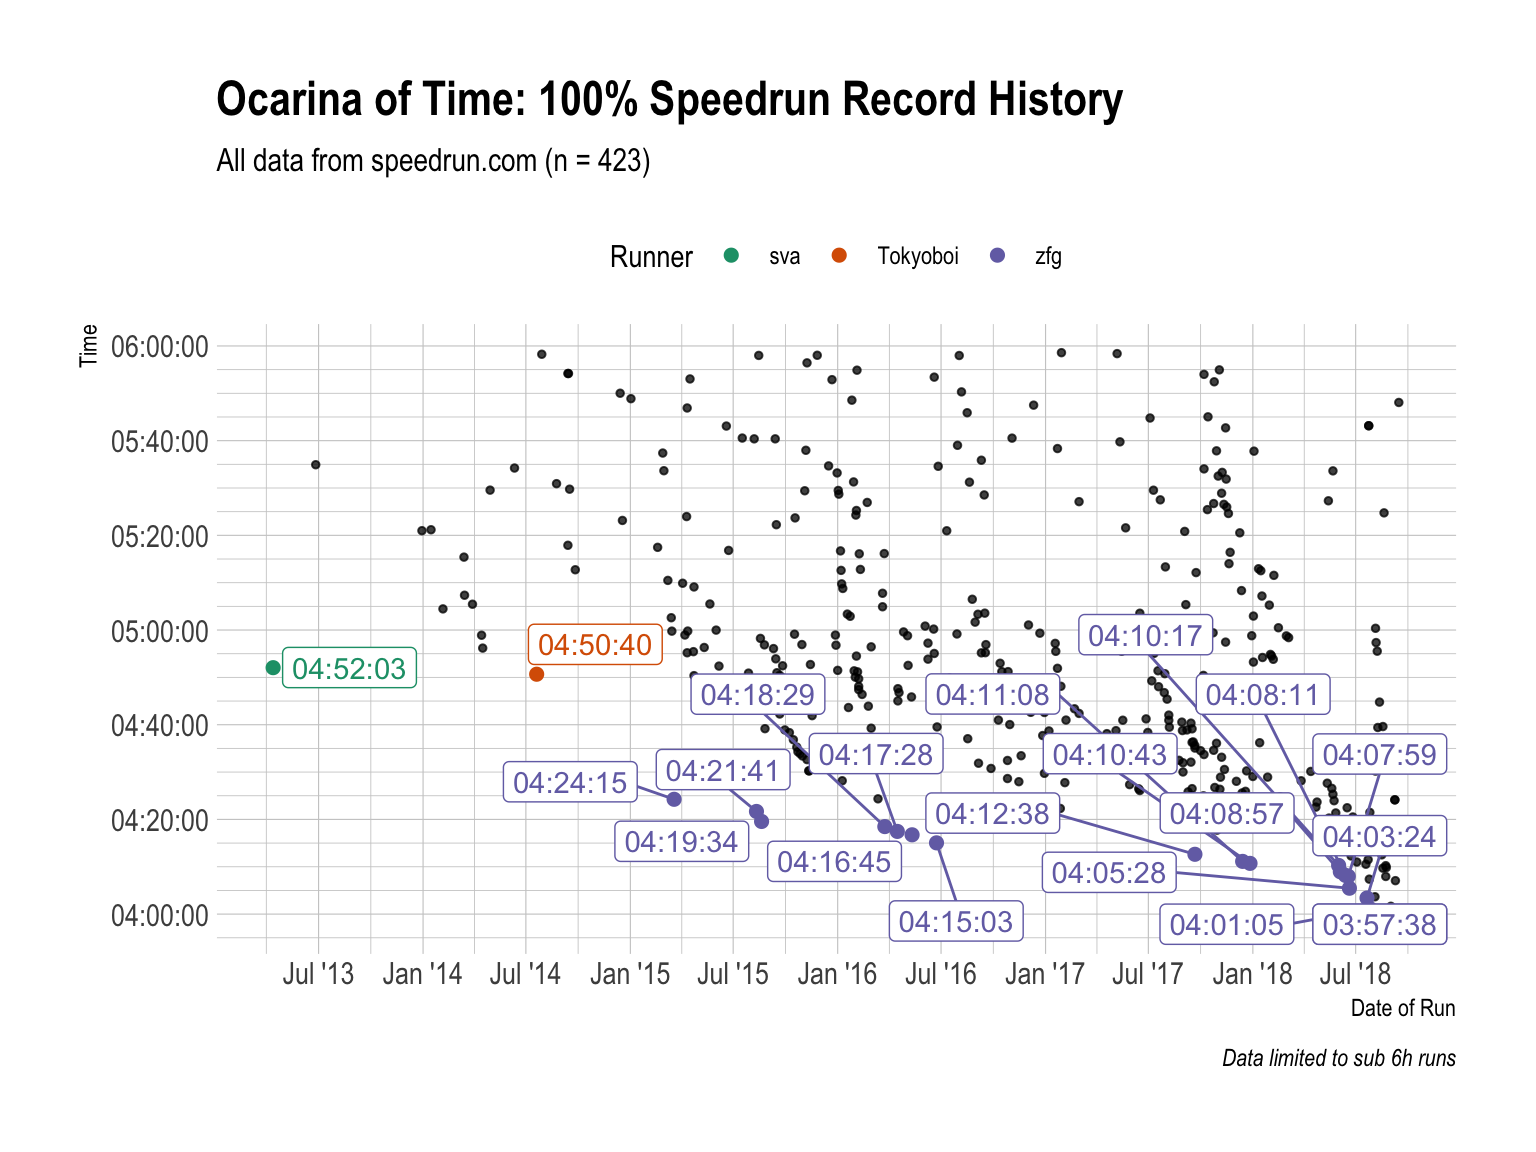
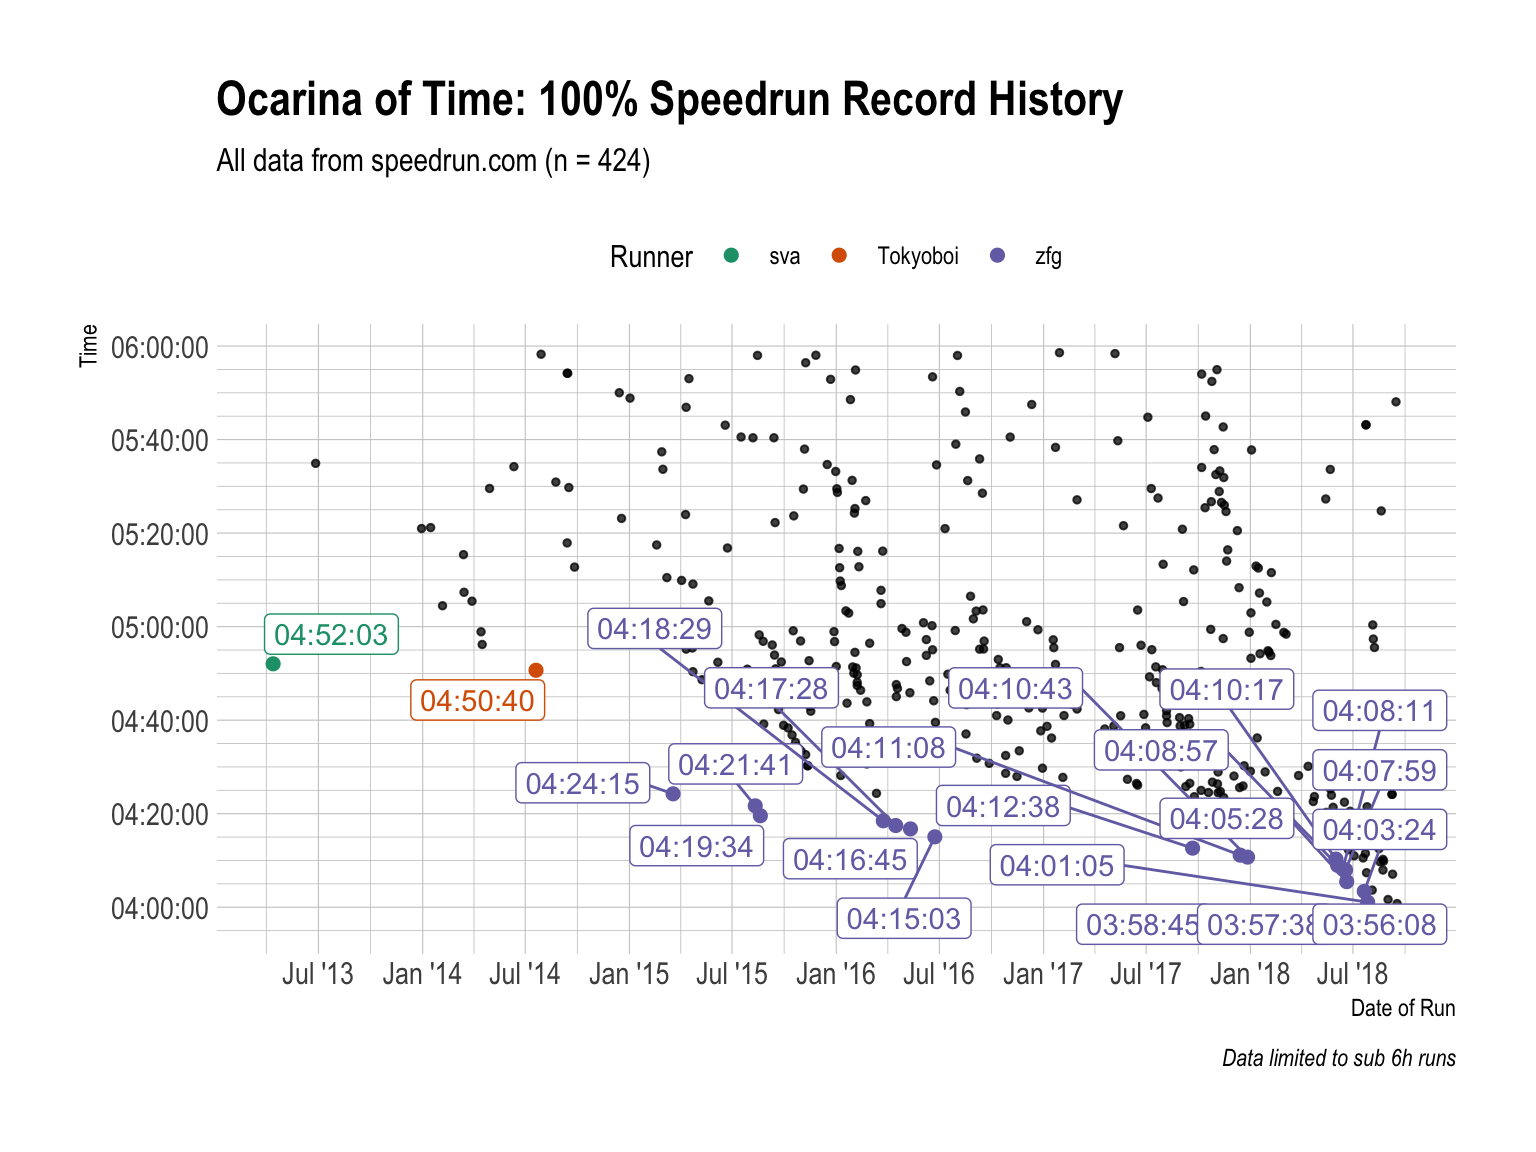
Update vignette

diff --git a/docs/articles/ocarina-of-time-100-.html b/docs/articles/ocarina-of-time-100-.html
@@ -82,7 +82,7 @@
       <h1>Ocarina of Time 100%</h1>
                         <h4 class="author">Lukas Burk</h4>
             
-            <h4 class="date">2018-09-22</h4>
+            <h4 class="date">2018-09-23</h4>
       
       <small class="dont-index">Source: <a href="https://github.com/jemus42/speedrunr/blob/master/vignettes/ocarina-of-time-100-.Rmd"><code>vignettes/ocarina-of-time-100-.Rmd</code></a></small>
       <div class="hidden name"><code>ocarina-of-time-100-.Rmd</code></div>
@@ -134,28 +134,28 @@ category &lt;-<span class="st"> "q255jw2o"</span>
 oot100 &lt;-<span class="st"> </span><span class="kw"><a href="../reference/get_runs.html">get_runs</a></span>(<span class="dt">game =</span> <span class="st">"j1l9qz1g"</span>, <span class="dt">category =</span> <span class="st">"q255jw2o"</span>, <span class="dt">max =</span> <span class="ot">Inf</span>)</code></pre></div>
 <p>Note that I’m useing <code>max = Inf</code> to make sure I get <em>all</em> the runs.</p>
 <div class="sourceCode"><pre class="sourceCode r"><code class="sourceCode r"><span class="kw">str</span>(oot100)
-<span class="co">#&gt; Classes 'tbl_df', 'tbl' and 'data.frame':    535 obs. of  22 variables:</span>
-<span class="co">#&gt;  $ id             : chr  "zx4gejqy" "y2qx61jy" "z03rkvoz" "yvj17p6y" ...</span>
-<span class="co">#&gt;  $ weblink        : chr  "https://www.speedrun.com/oot/run/zx4gejqy" "https://www.speedrun.com/oot/run/y2qx61jy" "https://www.speedrun.com/oot/run/z03rkvoz" "https://www.speedrun.com/oot/run/yvj17p6y" ...</span>
+<span class="co">#&gt; Classes 'tbl_df', 'tbl' and 'data.frame':    536 obs. of  22 variables:</span>
+<span class="co">#&gt;  $ id             : chr  "y923l3ez" "zx4gejqy" "y2qx61jy" "z03rkvoz" ...</span>
+<span class="co">#&gt;  $ weblink        : chr  "https://www.speedrun.com/oot/run/y923l3ez" "https://www.speedrun.com/oot/run/zx4gejqy" "https://www.speedrun.com/oot/run/y2qx61jy" "https://www.speedrun.com/oot/run/z03rkvoz" ...</span>
 <span class="co">#&gt;  $ game           : chr  "j1l9qz1g" "j1l9qz1g" "j1l9qz1g" "j1l9qz1g" ...</span>
 <span class="co">#&gt;  $ level          : logi  NA NA NA NA NA NA ...</span>
 <span class="co">#&gt;  $ category       : chr  "q255jw2o" "q255jw2o" "q255jw2o" "q255jw2o" ...</span>
-<span class="co">#&gt;  $ videos         : chr  "https://www.youtube.com/watch?v=l_m6TKaZhQE" "https://www.twitch.tv/videos/310354385" "https://www.twitch.tv/videos/310313258" "https://www.twitch.tv/videos/309881127" ...</span>
+<span class="co">#&gt;  $ videos         : chr  "https://www.youtube.com/watch?v=Fw5i584lHRI" "https://www.youtube.com/watch?v=l_m6TKaZhQE" "https://www.twitch.tv/videos/310354385" "https://www.twitch.tv/videos/310313258" ...</span>
 <span class="co">#&gt;  $ status         : chr  "verified" "verified" "verified" "verified" ...</span>
-<span class="co">#&gt;  $ comment        : chr  NA "I got to the top 100! Its a big milestone for me!\r\n6th try Dampe and my superslides need A LOT of work. But o"| __truncated__ "4th try dampe.\r\nFailed Collapse skip. really bad" "Terrible Run" ...</span>
-<span class="co">#&gt;  $ player_id      : chr  "v819rrxp" "kj9r4qnj" "68wq9z8g" "kj9r4qnj" ...</span>
-<span class="co">#&gt;  $ player_url     : chr  "https://www.speedrun.com/user/Marco" "https://www.speedrun.com/user/Hsarlo_Christian" "https://www.speedrun.com/user/Cma" "https://www.speedrun.com/user/Hsarlo_Christian" ...</span>
-<span class="co">#&gt;  $ player_name    : chr  "Marco" "Hsarlo_Christian" "Cma" "Hsarlo_Christian" ...</span>
+<span class="co">#&gt;  $ comment        : chr  "1st try dampe.  during the oot vs oot3d 100% race." NA "I got to the top 100! Its a big milestone for me!\r\n6th try Dampe and my superslides need A LOT of work. But o"| __truncated__ "4th try dampe.\r\nFailed Collapse skip. really bad" ...</span>
+<span class="co">#&gt;  $ player_id      : chr  "e8e5v680" "v819rrxp" "kj9r4qnj" "68wq9z8g" ...</span>
+<span class="co">#&gt;  $ player_url     : chr  "https://www.speedrun.com/user/zfg" "https://www.speedrun.com/user/Marco" "https://www.speedrun.com/user/Hsarlo_Christian" "https://www.speedrun.com/user/cma2819" ...</span>
+<span class="co">#&gt;  $ player_name    : chr  "zfg" "Marco" "Hsarlo_Christian" "cma2819" ...</span>
 <span class="co">#&gt;  $ player_role    : chr  "user" "user" "user" "user" ...</span>
-<span class="co">#&gt;  $ player_signup  : POSIXct, format: "2015-02-17 18:25:39" "2016-10-29 07:59:09" ...</span>
-<span class="co">#&gt;  $ date           : Date, format: "2018-09-17" "2018-09-15" ...</span>
-<span class="co">#&gt;  $ submitted      : POSIXct, format: "2018-09-17 12:49:58" "2018-09-15 10:32:25" ...</span>
-<span class="co">#&gt;  $ time_primary   : int  14447 20884 15577 22987 14824 22265 15848 15848 25479 24707 ...</span>
-<span class="co">#&gt;  $ time_realtime  : int  14447 20884 15577 22987 14824 22265 15848 15848 25479 24707 ...</span>
+<span class="co">#&gt;  $ player_signup  : POSIXct, format: "2015-02-17 03:55:57" "2015-02-17 18:25:39" ...</span>
+<span class="co">#&gt;  $ date           : Date, format: "2018-09-22" "2018-09-17" ...</span>
+<span class="co">#&gt;  $ submitted      : POSIXct, format: "2018-09-23 01:03:54" "2018-09-17 12:49:58" ...</span>
+<span class="co">#&gt;  $ time_primary   : int  14168 14447 20884 15577 22987 14824 22265 15848 15848 25479 ...</span>
+<span class="co">#&gt;  $ time_realtime  : int  14168 14447 20884 15577 22987 14824 22265 15848 15848 25479 ...</span>
 <span class="co">#&gt;  $ time_ingame    : int  0 0 0 0 0 0 0 0 0 0 ...</span>
-<span class="co">#&gt;  $ time_hms       : 'hms' num  04:00:47 05:48:04 04:19:37 06:23:07 ...</span>
+<span class="co">#&gt;  $ time_hms       : 'hms' num  03:56:08 04:00:47 05:48:04 04:19:37 ...</span>
 <span class="co">#&gt;   ..- attr(*, "units")= chr "secs"</span>
-<span class="co">#&gt;  $ system_platform: chr  "nzelreqp" "w89rwelk" "nzelreqp" "w89rwelk" ...</span>
+<span class="co">#&gt;  $ system_platform: chr  "nzelreqp" "nzelreqp" "w89rwelk" "nzelreqp" ...</span>
 <span class="co">#&gt;  $ system_emulated: logi  FALSE FALSE FALSE FALSE FALSE FALSE ...</span>
 <span class="co">#&gt;  $ system_region  : chr  "o316x197" "o316x197" "o316x197" "o316x197" ...</span></code></pre></div>
 <p>We want some additional data:</p>
@@ -182,72 +182,72 @@ oot100 <span class="op">%&gt;%</span><span class="st"> </span>
 </tr></thead>
 <tbody>
 <tr class="odd">
+<td align="left">03:56:08</td>
+<td align="left">zfg</td>
+<td align="left">2018-09-22</td>
+<td align="left">Wii Virtual Console</td>
+<td align="left">JPN / NTSC</td>
+</tr>
+<tr class="even">
 <td align="left">03:57:38</td>
 <td align="left">zfg</td>
 <td align="left">2018-08-20</td>
 <td align="left">Wii Virtual Console</td>
 <td align="left">JPN / NTSC</td>
 </tr>
-<tr class="even">
+<tr class="odd">
 <td align="left">03:58:45</td>
 <td align="left">zfg</td>
 <td align="left">2018-08-01</td>
 <td align="left">Wii Virtual Console</td>
 <td align="left">JPN / NTSC</td>
 </tr>
-<tr class="odd">
+<tr class="even">
 <td align="left">04:00:47</td>
 <td align="left">Marco</td>
 <td align="left">2018-09-17</td>
 <td align="left">Wii Virtual Console</td>
 <td align="left">JPN / NTSC</td>
 </tr>
-<tr class="even">
+<tr class="odd">
 <td align="left">04:01:05</td>
 <td align="left">zfg</td>
 <td align="left">2018-07-27</td>
 <td align="left">Wii Virtual Console</td>
 <td align="left">JPN / NTSC</td>
 </tr>
-<tr class="odd">
+<tr class="even">
 <td align="left">04:01:39</td>
 <td align="left">Marco</td>
 <td align="left">2018-09-01</td>
 <td align="left">Wii Virtual Console</td>
 <td align="left">JPN / NTSC</td>
 </tr>
-<tr class="even">
+<tr class="odd">
 <td align="left">04:03:24</td>
 <td align="left">zfg</td>
 <td align="left">2018-07-21</td>
 <td align="left">Wii Virtual Console</td>
 <td align="left">JPN / NTSC</td>
 </tr>
-<tr class="odd">
+<tr class="even">
 <td align="left">04:03:40</td>
 <td align="left">Marco</td>
 <td align="left">2018-08-04</td>
 <td align="left">Wii Virtual Console</td>
 <td align="left">JPN / NTSC</td>
 </tr>
-<tr class="even">
+<tr class="odd">
 <td align="left">04:05:28</td>
 <td align="left">zfg</td>
 <td align="left">2018-06-20</td>
 <td align="left">Wii Virtual Console</td>
 <td align="left">JPN / NTSC</td>
 </tr>
-<tr class="odd">
+<tr class="even">
 <td align="left">04:07:04</td>
 <td align="left">MasterMonk1991</td>
 <td align="left">2018-09-09</td>
-<td align="left">Wii Virtual Console</td>
-<td align="left">JPN / NTSC</td>
-</tr>
-<tr class="even">
-<td align="left">04:07:23</td>
-<td align="left">Marco</td>
-<td align="left">2018-07-25</td>
 <td align="left">Wii Virtual Console</td>
 <td align="left">JPN / NTSC</td>
 </tr>

diff --git a/docs/index.html b/docs/index.html
@@ -330,103 +330,103 @@ runs <span class="op">%&gt;%</span>
 </tr></thead>
 <tbody>
 <tr class="odd">
+<td align="left">2018-09-23 01:03:54</td>
+<td align="left">03:56:08</td>
+<td align="left"><a href="https://www.speedrun.com/user/zfg" class="uri">https://www.speedrun.com/user/zfg</a></td>
+</tr>
+<tr class="even">
 <td align="left">2018-08-21 04:27:10</td>
 <td align="left">03:57:38</td>
 <td align="left"><a href="https://www.speedrun.com/user/zfg" class="uri">https://www.speedrun.com/user/zfg</a></td>
 </tr>
-<tr class="even">
+<tr class="odd">
 <td align="left">2018-08-02 02:15:56</td>
 <td align="left">03:58:45</td>
 <td align="left"><a href="https://www.speedrun.com/user/zfg" class="uri">https://www.speedrun.com/user/zfg</a></td>
 </tr>
-<tr class="odd">
+<tr class="even">
 <td align="left">2018-09-17 12:49:58</td>
 <td align="left">04:00:47</td>
 <td align="left"><a href="https://www.speedrun.com/user/Marco" class="uri">https://www.speedrun.com/user/Marco</a></td>
 </tr>
-<tr class="even">
+<tr class="odd">
 <td align="left">2018-07-28 05:47:32</td>
 <td align="left">04:01:05</td>
 <td align="left"><a href="https://www.speedrun.com/user/zfg" class="uri">https://www.speedrun.com/user/zfg</a></td>
 </tr>
-<tr class="odd">
+<tr class="even">
 <td align="left">2018-09-01 04:40:41</td>
 <td align="left">04:01:39</td>
 <td align="left"><a href="https://www.speedrun.com/user/Marco" class="uri">https://www.speedrun.com/user/Marco</a></td>
 </tr>
-<tr class="even">
+<tr class="odd">
 <td align="left">2018-07-22 03:15:39</td>
 <td align="left">04:03:24</td>
 <td align="left"><a href="https://www.speedrun.com/user/zfg" class="uri">https://www.speedrun.com/user/zfg</a></td>
 </tr>
-<tr class="odd">
+<tr class="even">
 <td align="left">2018-08-04 04:03:15</td>
 <td align="left">04:03:40</td>
 <td align="left"><a href="https://www.speedrun.com/user/Marco" class="uri">https://www.speedrun.com/user/Marco</a></td>
 </tr>
-<tr class="even">
+<tr class="odd">
 <td align="left">2018-06-21 02:28:51</td>
 <td align="left">04:05:28</td>
 <td align="left"><a href="https://www.speedrun.com/user/zfg" class="uri">https://www.speedrun.com/user/zfg</a></td>
 </tr>
-<tr class="odd">
+<tr class="even">
 <td align="left">2018-09-09 23:02:52</td>
 <td align="left">04:07:04</td>
 <td align="left"><a href="https://www.speedrun.com/user/MasterMonk1991" class="uri">https://www.speedrun.com/user/MasterMonk1991</a></td>
 </tr>
-<tr class="even">
+<tr class="odd">
 <td align="left">2018-07-25 04:07:52</td>
 <td align="left">04:07:23</td>
 <td align="left"><a href="https://www.speedrun.com/user/Marco" class="uri">https://www.speedrun.com/user/Marco</a></td>
 </tr>
-<tr class="odd">
+<tr class="even">
 <td align="left">2018-08-23 00:22:32</td>
 <td align="left">04:07:57</td>
 <td align="left"><a href="https://www.speedrun.com/user/Bonooru" class="uri">https://www.speedrun.com/user/Bonooru</a></td>
 </tr>
-<tr class="even">
+<tr class="odd">
 <td align="left">2018-06-19 05:20:57</td>
 <td align="left">04:07:59</td>
 <td align="left"><a href="https://www.speedrun.com/user/zfg" class="uri">https://www.speedrun.com/user/zfg</a></td>
 </tr>
-<tr class="odd">
+<tr class="even">
 <td align="left">2018-06-14 04:01:53</td>
 <td align="left">04:08:11</td>
 <td align="left"><a href="https://www.speedrun.com/user/zfg" class="uri">https://www.speedrun.com/user/zfg</a></td>
 </tr>
-<tr class="even">
+<tr class="odd">
 <td align="left">2018-06-05 03:41:59</td>
 <td align="left">04:08:57</td>
 <td align="left"><a href="https://www.speedrun.com/user/zfg" class="uri">https://www.speedrun.com/user/zfg</a></td>
 </tr>
-<tr class="odd">
+<tr class="even">
 <td align="left">2018-08-18 03:12:47</td>
 <td align="left">04:09:42</td>
 <td align="left"><a href="https://www.speedrun.com/user/Bonooru" class="uri">https://www.speedrun.com/user/Bonooru</a></td>
 </tr>
-<tr class="even">
+<tr class="odd">
 <td align="left">2018-08-24 10:36:10</td>
 <td align="left">04:09:50</td>
 <td align="left"><a href="https://www.speedrun.com/user/MasterMonk1991" class="uri">https://www.speedrun.com/user/MasterMonk1991</a></td>
 </tr>
-<tr class="odd">
+<tr class="even">
 <td align="left">2018-08-23 14:48:18</td>
 <td align="left">04:10:14</td>
 <td align="left"><a href="https://www.speedrun.com/user/MasterMonk1991" class="uri">https://www.speedrun.com/user/MasterMonk1991</a></td>
 </tr>
-<tr class="even">
+<tr class="odd">
 <td align="left">2018-06-02 03:35:41</td>
 <td align="left">04:10:17</td>
 <td align="left"><a href="https://www.speedrun.com/user/zfg" class="uri">https://www.speedrun.com/user/zfg</a></td>
 </tr>
-<tr class="odd">
+<tr class="even">
 <td align="left">2018-07-20 01:17:13</td>
 <td align="left">04:10:32</td>
-<td align="left"><a href="https://www.speedrun.com/user/Marco" class="uri">https://www.speedrun.com/user/Marco</a></td>
-</tr>
-<tr class="even">
-<td align="left">2018-07-03 02:09:52</td>
-<td align="left">04:11:00</td>
 <td align="left"><a href="https://www.speedrun.com/user/Marco" class="uri">https://www.speedrun.com/user/Marco</a></td>
 </tr>
 </tbody>
@@ -535,29 +535,29 @@ runs <span class="op">%&gt;%</span>
 </tr></thead>
 <tbody>
 <tr class="odd">
-<td align="right">15251</td>
+<td align="right">21825</td>
 <td align="left">JPN / NTSC</td>
 <td align="left">Wii Virtual Console</td>
 </tr>
 <tr class="even">
-<td align="right">20589</td>
+<td align="right">25422</td>
 <td align="left">JPN / NTSC</td>
 <td align="left">Nintendo 64</td>
 </tr>
 <tr class="odd">
-<td align="right">15586</td>
+<td align="right">17087</td>
 <td align="left">JPN / NTSC</td>
 <td align="left">Wii Virtual Console</td>
 </tr>
 <tr class="even">
-<td align="right">15365</td>
+<td align="right">14843</td>
 <td align="left">JPN / NTSC</td>
 <td align="left">Wii Virtual Console</td>
 </tr>
 <tr class="odd">
-<td align="right">18752</td>
+<td align="right">15577</td>
 <td align="left">JPN / NTSC</td>
-<td align="left">Nintendo 64</td>
+<td align="left">Wii Virtual Console</td>
 </tr>
 </tbody>
 </table>
